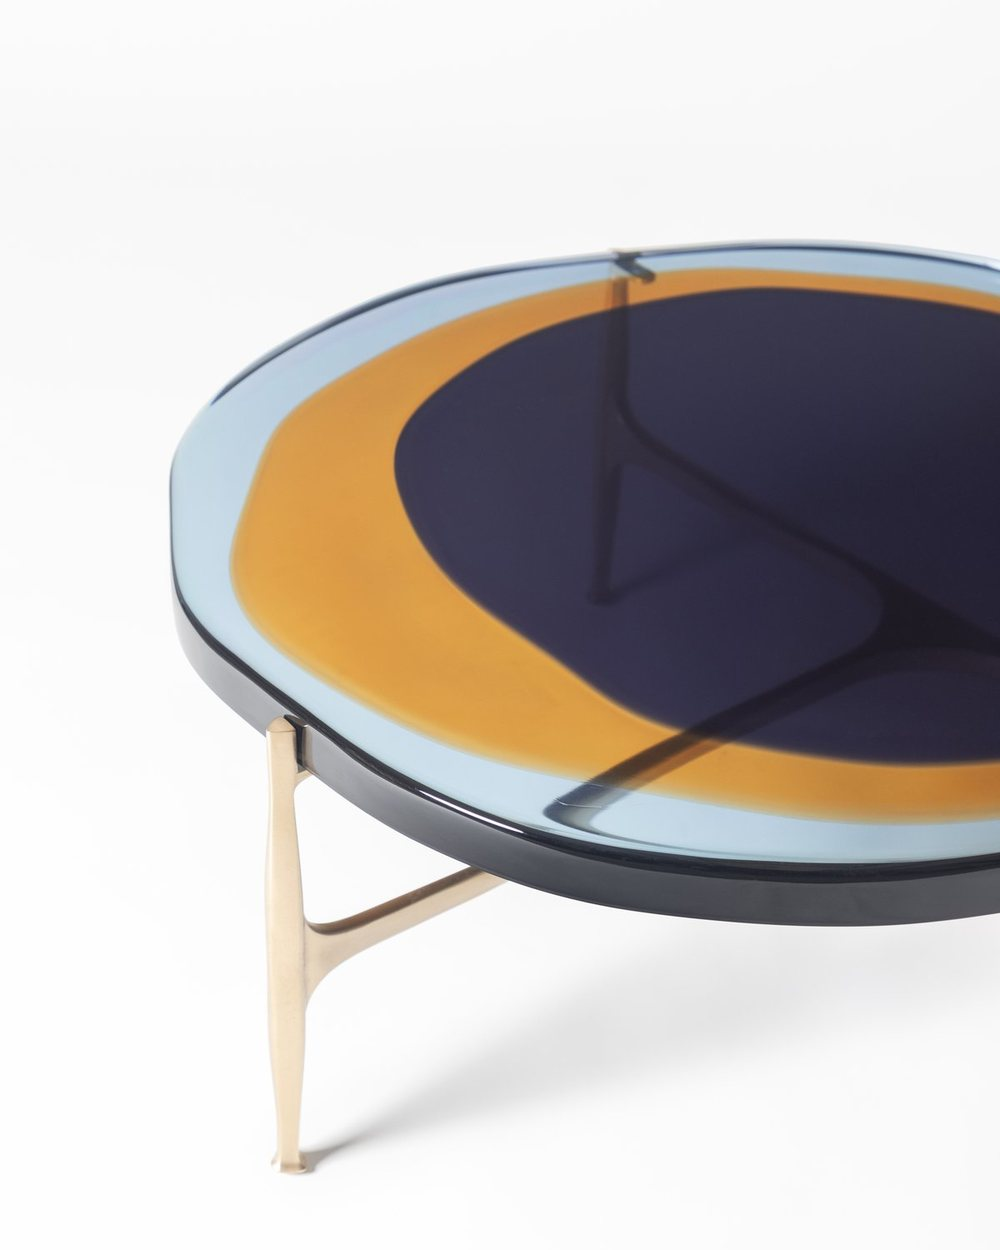
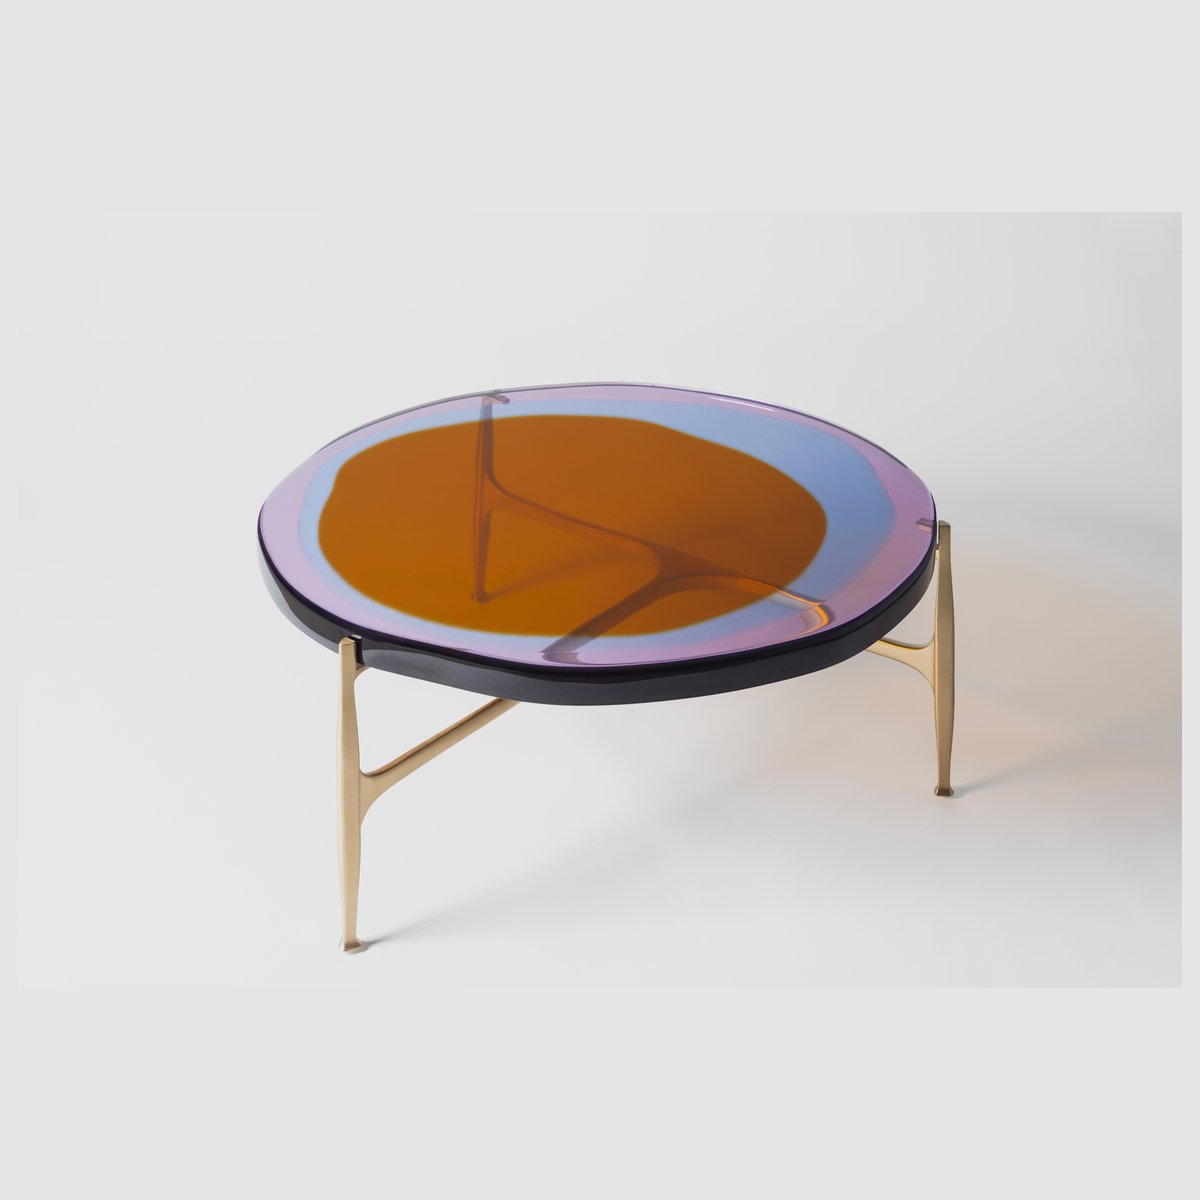
Real photographs of the exhibited pieces, square cards
Studio photographs by Federica Lissoni and Riccardo Gasperoni replace the
catalogue shots, so colours match the pieces actually coming to Bucharest.
The three Jade items share one card; cards become square for the wider photos.

diff --git a/assets/site.css b/assets/site.css
@@ -210,7 +210,7 @@ html.no-vt.is-leaving body { opacity: 0; }
   gap: clamp(2.2rem, 4vw, 3.5rem) clamp(1rem, 2.5vw, 2rem);
 }
 .object { display: block; }
-.object .frame { aspect-ratio: 4 / 5; }
+.object .frame { aspect-ratio: 1 / 1; }
 .object-title {
   margin-top: 1rem;
   font-size: 1.05rem;

diff --git a/src/artists/draga-aurel.md b/src/artists/draga-aurel.md
@@ -51,42 +51,35 @@ objects:
     home_meta: Coffee table — Resin, bronze
     description: An irregular disc of poured colour, deep and fluid, held in a matte bronze frame. Epoxy resin, bronze.
     image: /assets/draga-aurel/agatha-big.jpg
-    alt: Agatha coffee table with a big resin top in a bronze frame
+    alt: Agatha coffee table with a large orange and lilac resin top on a bronze frame
     featured: true
   - name: Jade
-    meta: Coffee tables — Ø 50 × H 28 cm and Ø 50 × H 38 cm
-    home_meta: Coffee table — Resin, brass
-    description: Interchangeable tops of blended colour, emerald and tobacco, on cylinders of etched, veined brass. Epoxy resin, brass.
-    image: /assets/draga-aurel/jade-coffee.jpg
-    alt: Jade coffee tables with coloured resin tops on brass cylinders
-    featured: false
-  - name: Jade
-    meta: Stool — Ø 40 × H 46 cm
-    home_meta: Stool — Resin, brass
-    description: A seat of blended colour resting on a cylinder of etched, veined brass. Epoxy resin, brass.
+    meta: Coffee tables and stool — Ø 50 × H 28 and H 38 cm, Ø 40 × H 46 cm
+    home_meta: Coffee tables — Resin, brass
+    description: Tops of blended colour, emerald and tobacco among them, resting on cylinders of etched, veined brass. The resin tops are interchangeable. Epoxy resin, brass.
     image: /assets/draga-aurel/jade.jpg
-    alt: Jade stools
+    alt: Four Jade pieces, coloured resin tops on brass cylinders
     featured: false
   - name: Cala
     meta: Bench — 110 × 42.5 × H 40 cm
     home_meta: Bench — Resin, concrete, brass
-    description: Coarse concrete under deep layers of resin, after the shores and lakebed of Como. Burnished brass base.
+    description: Coarse concrete under deep layers of green resin, after the shores and lakebed of Como. Burnished brass base.
     image: /assets/draga-aurel/cala.jpg
-    alt: Cala bench in resin and concrete
+    alt: Cala benches arranged in a circle, green resin over concrete
     featured: true
   - name: Rive
     meta: Bench — 185 × 40 × H 45 cm
     home_meta: Bench — Concrete, fabric
     description: A massive bench in the language of megalithic architecture, its concrete treated with sea salt until corroded and smooth surfaces alternate. Sea-salt treated concrete and fabric.
     image: /assets/draga-aurel/rive.jpg
-    alt: Rive bench in treated concrete
+    alt: Rive bench in black treated concrete
     featured: false
   - name: Joy 800
     meta: Wall lamps — 20 × 13 × H 80 cm
     home_meta: Wall lamp — Resin, brass, LED
     description: Luminous columns of layered resin, in soft green and pink, that owe their glow to the Space Age. Epoxy resin, brass, LED.
     image: /assets/draga-aurel/joy.jpg
-    alt: Joy wall lamp, a luminous column of resin
+    alt: Joy wall lamp glowing green inside layered resin
     featured: true
 record_label: Selected record
 record:
@@ -123,7 +116,7 @@ record:
 enquire_lead: Every piece is made to order in Como.
 enquire_dim: Ask us about sizes, colours and availability.
 enquire_subject: Draga & Aurel — Transparency Matters
-credits: "Images and films courtesy of Draga & Aurel. Installation photograph: Riccardo Gasperoni. Portrait: Anne Timmer, creative direction Valerie van der Werff."
+credits: "Images and films courtesy of Draga & Aurel. Photographs: Federica Lissoni and Riccardo Gasperoni. Portrait: Anne Timmer, creative direction Valerie van der Werff."
 ---
 
 Draga & Aurel is the studio of designer Draga Obradovic and artist Aurel K. Basedow,
